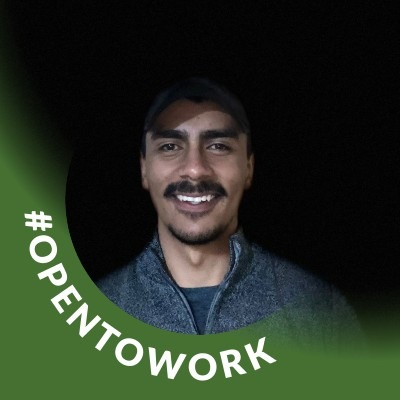
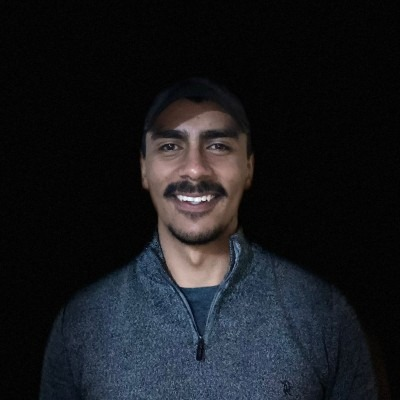
feat: Update homre

Changed region(s): [[0.0, 0.15, 1.0, 1.0]]

diff --git a/index.md b/index.md
@@ -151,13 +151,13 @@ sections:
         title: >+
           Agosto 2025 - **La estafa que me hizo ofrecer mis servicios de manera formal**
         text: >-
-          Un cliente solicita ayuda para ver si podía rastrear y recuperar su dinero. Si bien no me fue posible recuperar su dinero, pude encontrar una estafa que llevaba varios años en operación y con la información recopilada, elaboré un reporte y lo envié al departamento de Ciberseguridad de Megacable, ya que la estafa partía del uso del nombre de Megacable y del aprovechamiento del registro en Google Maps de una de sus ubicaciones.
+          Un cliente solicita ayuda para rastrear y recuperar su dinero. Si bien no me fue posible recuperar su dinero, sí fue posible encontrar una estafa que llevaba varios años en operación y con la información recopilada, fue elaborado un reporte que fue enviado al departamento de Ciberseguridad de Megacable, ya que la estafa partía del uso del nombre de Megacable y del aprovechamiento del registro en Google Maps de una de sus ubicaciones.
       
       - image: assets/img/usb.jpg
         title: >+
           Agosto 2025 - **Un suceso inesperado**
         text: >-
-          Se daña una memoria USB con información personal. La necesidad de recuperar esa información me lleva a estudiar sobre la recuperación de la información y combinarlo con la seguridad de la misma.
+          Se daña una memoria USB con información personal. La necesidad de recuperar esa información me lleva a estudiar sobre la recuperación de la información y combinar este conocimiento con la ciberseguridad.
       
       - image: assets/img/portfolio/thumbnails/recovery-2.jpg
         title: >+
@@ -169,7 +169,7 @@ sections:
     section_id: contacts
     title: ¡Contáctanos & Agenda Tu Cita!
     text: >-
-      Nuestro horario de atención: 8 AM - 6 PM de lunes a viernes
+      Nuestro horario de atención: 8 AM - 6 PM de lunes a viernes<br>Actualmente, nuestros servicios presenciales solo se ofrecen en Lázaro Cárdenas, Mich.
     actions:
     - title: 753-121-0815
       icon: bi-phone-fill